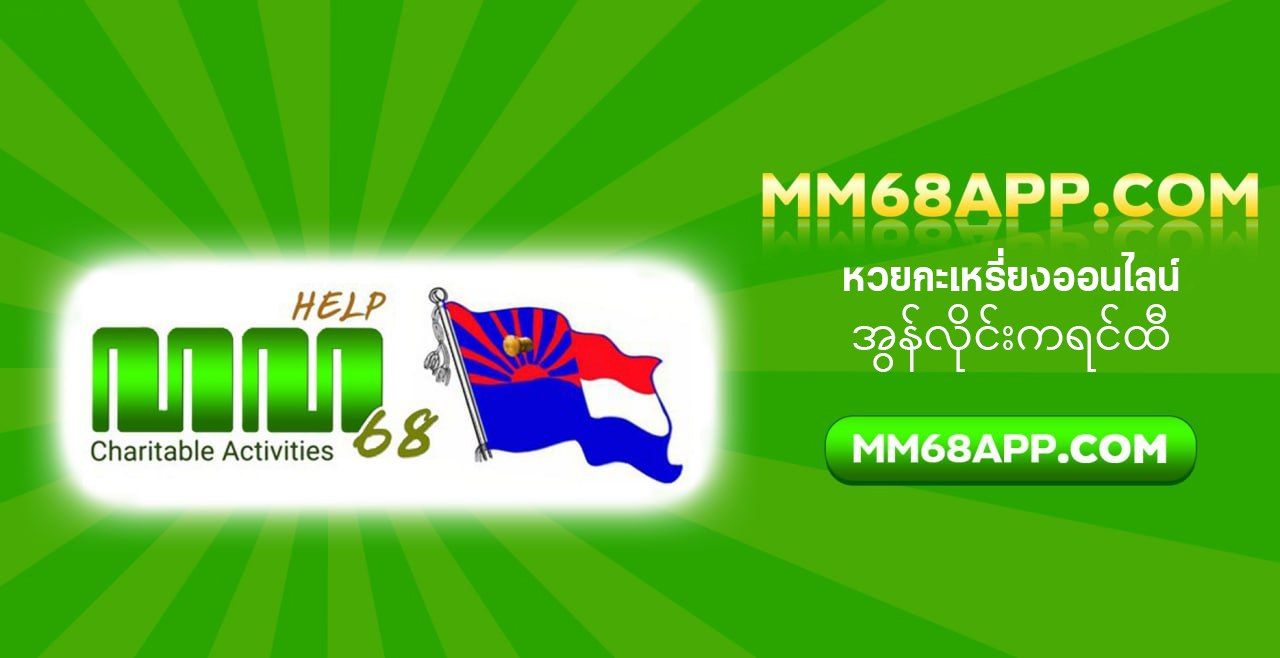
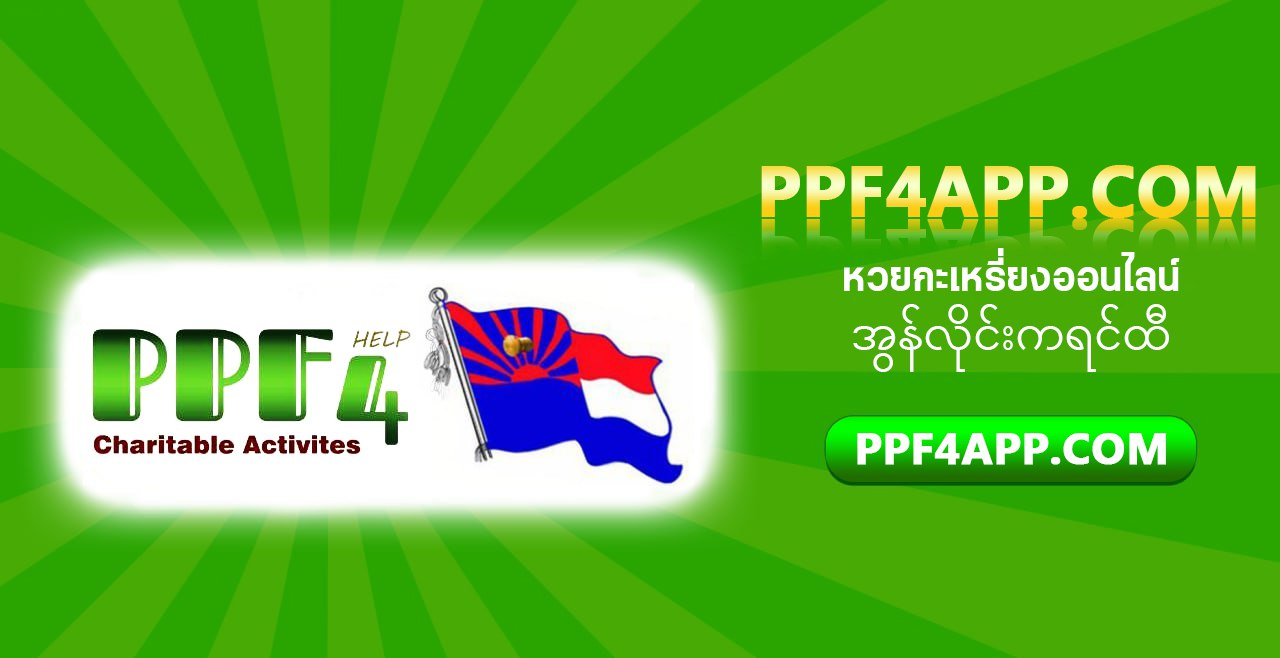
25_06_1

Changed region(s): [[0.0625, 0.4255, 0.3438, 0.6991], [0.5938, 0.2432, 1.0, 0.3647], [0.625, 0.6079, 0.9375, 0.7295]]

diff --git a/src/components/Header.jsx b/src/components/Header.jsx
@@ -38,7 +38,7 @@ const Header = () => {
         </div>
       </div>
       <div className="flex-1-header">
-        <h5>MM68APP</h5>
+        <h5>PPF4APP</h5>
       </div>
       <div className="flex-1-header">
         {userInfo ? (
